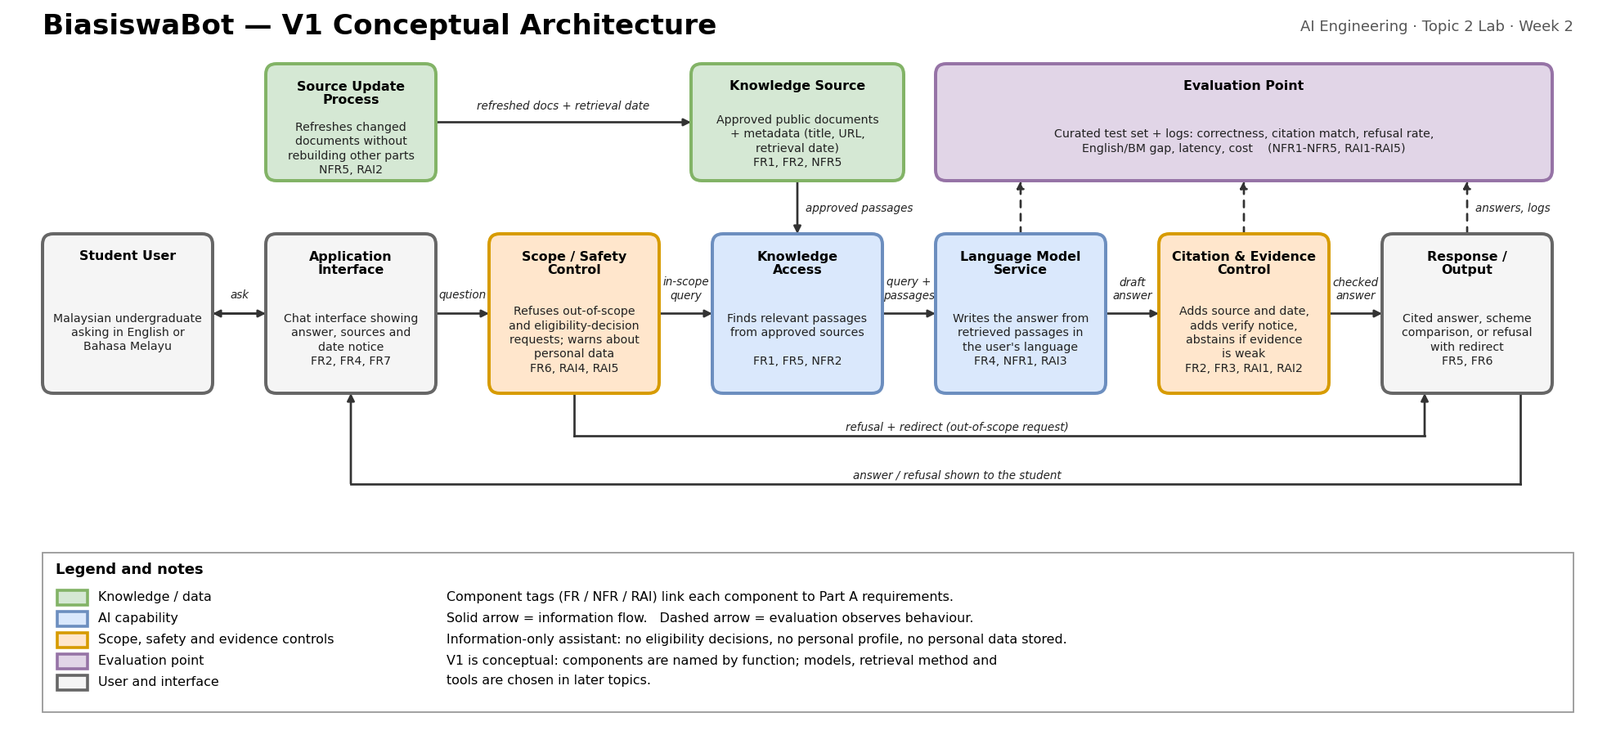
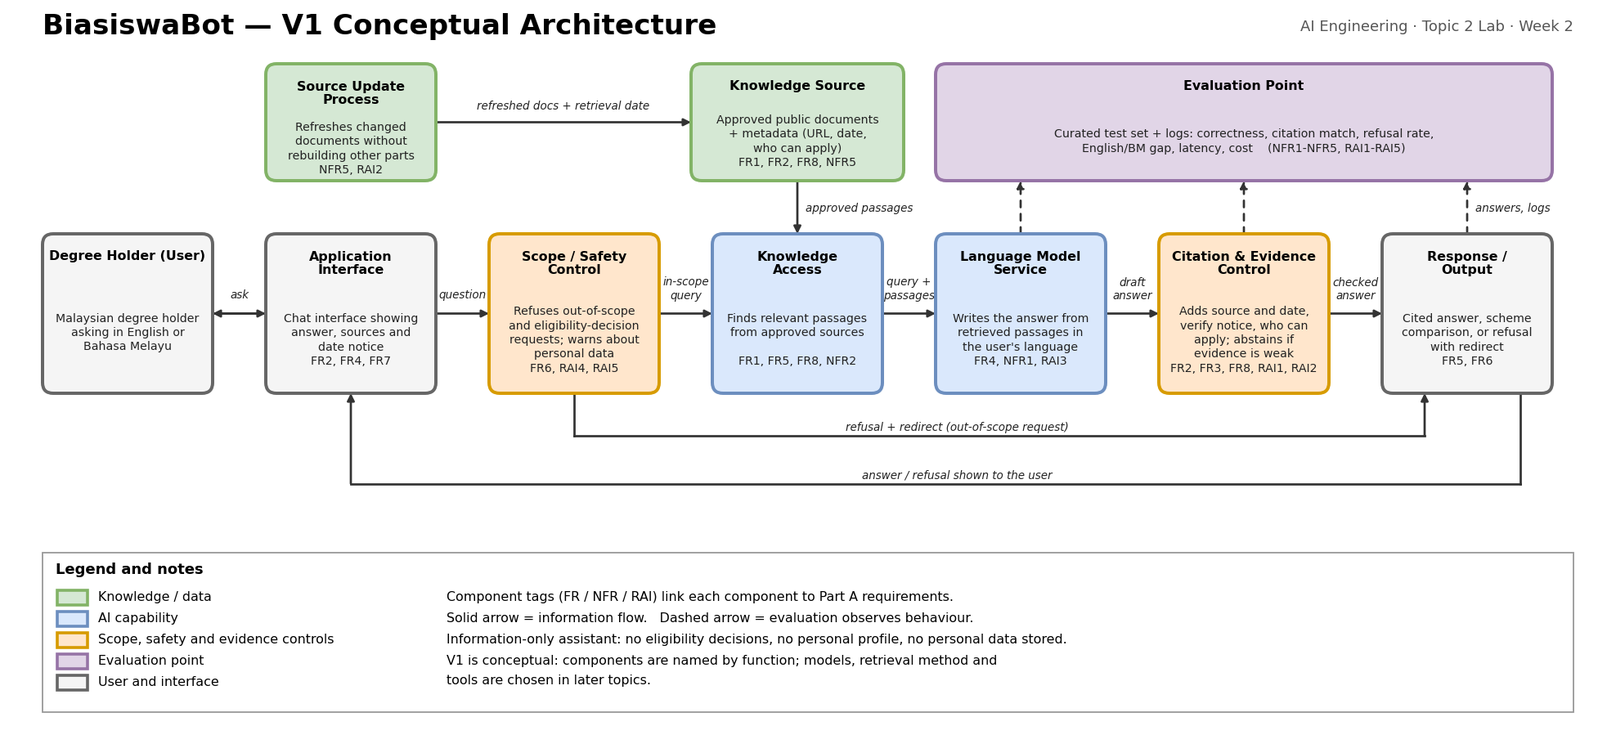
Week 2: add revised requirements, evaluation, architecture (degree holders, availability, papers)

diff --git a/docs/week2_requirements.md b/docs/week2_requirements.md
@@ -1,24 +1,38 @@
 # Requirements Specification — BiasiswaBot
 
-Version: 1.0 (Week 2)
+Version: 1.1 (Week 2, revised after lecturer feedback)
 
 ## Section 0 — Project Framing & Application Scope Checkpoint
 
 | Element | Content |
 |---|---|
-| **Problem Evidence** | Scholarship and financial-aid information for Malaysian undergraduates is spread across separate providers with different conditions. (1) MyGOV Malaysia lists assistance from several providers (e.g. JPA, PTPK), each with its own conditions such as income limits and "no other sponsorship": https://www.malaysia.gov.my/en/categories/school--education/scholarships-and-financial-assistance (2) Universities restate PTPTN rules with institution-specific details such as application windows and GPA conditions: https://www.hw.ac.uk/malaysia/study/fees-and-funding/scholarships/national-higher-education-fund-ptptn and https://new.apu.edu.my/national-higher-education-fund-perbadanan-tabung-pendidikan-tinggi-nasional-ptptn. A student must read and cross-check several pages to find the right scheme. |
-| **Existing Approaches** | (1) Chen et al. (2024) — RAG admission chatbot: gives grounded answers about admissions at three universities. (2) Trienes et al. (2025) — Marcel: open-source student-support agent for enrolment questions about one programme. (3) Siragusa et al. (2024) — Unipa-GPT: chatbot answering questions from one university's website in Italian. (4) Agency portals and FAQ pages (MyGOV, PTPTN, JPA): authoritative, but each covers its own scheme and the student must compare them manually. |
-| **Project / Engineering Gap** | The approaches above serve one institution or one agency. None of them (in this initial scan) combines scholarship and financial-aid rules from several Malaysian agencies, shows the source and date for every answer, handles English and Bahasa Melayu questions, and declines to make eligibility decisions. This is a practical engineering gap in grounding, traceability and scope control, not a claim of scientific novelty. |
-| **Objective O1** | To design a document-grounded AI assistant that answers scholarship and financial-aid questions using approved public Malaysian sources. |
-| **Objective O2** | To develop the assistant with source retrieval, source citation with date, and scope and evidence controls (decline out-of-scope requests, state when evidence is insufficient). |
-| **Objective O3** | To evaluate the assistant on answer correctness, citation support, refusal behaviour, English/BM parity, latency and cost using a curated test set. |
-| **Intended Users** | Malaysian undergraduate students (especially first- and second-year students at public universities) and prospective students looking for scholarships and financial aid. |
-| **Supported Tasks** | Answer questions about a scheme's provider, eligibility criteria, benefits, application steps, required documents and deadlines; compare two or more schemes on stated criteria; show the source and date for each answer; answer in English or Bahasa Melayu. |
-| **Information / Knowledge Domain** | Scholarship and financial-aid schemes for Malaysian undergraduates, taken only from approved public documents (MyGOV, PTPTN, JPA and similar official pages). |
-| **Operating Context** | A web chat interface used by a student on a laptop or phone, mainly around scholarship and loan application periods. V1 is a course prototype, not a deployed service. |
-| **Important Constraints** | Public documents only; links and metadata are stored in the repository, not copyrighted files; information changes over time (deadlines, eligibility); one-semester timeline; low budget (free or low-cost tiers); work must run locally or in Google Colab; no personal data collected. |
-| **Explicit Out-of-Scope Tasks** | Deciding whether a person is eligible; recommending the scheme a specific person should choose; financial, legal or tax advice; submitting or filling in applications; collecting or storing IC numbers, income or other personal data; schemes outside Malaysia or not in the indexed sources. |
-| **Evaluation Focus** | Can the assistant give correct, source-cited answers about scholarships and financial aid in English and Bahasa Melayu, decline out-of-scope requests, and stay within latency and cost limits, so that a student can trust and verify the information? |
+| **Problem Evidence** | Funding for postgraduate study in Malaysia comes from several bodies, and **who can apply differs by scheme**, which a degree holder cannot tell from the scheme name. (1) PTPTN financing requires an admission offer and enrolment on a programme approved by the Ministry and accredited by MQA (University of Reading Malaysia, n.d.; Asia Pacific University of Technology & Innovation, n.d.). (2) Universiti Malaya's postgraduate fee-reduction scheme is open only to Malaysian citizens registered as UM Master's or doctoral students with no other scholarship (Universiti Malaya, 2024). (3) The University of Aberdeen's David Stewart Scholarship (2024 intake) requires an offer of a place at Aberdeen and is held only there (University of Aberdeen, n.d.). (4) MyGOV lists assistance from several providers with different conditions (MyGOV Malaysia, n.d.). A degree holder who has not yet been admitted has to read each scheme's conditions just to find out whether it is open to them. |
+| **Existing Approaches** | (1) **BarkPlug v.2** (Neupane et al., 2024): RAG chatbot whose corpus includes scholarships and financial aid, evaluated at one university. (2) **hoBIT / proFILL** (Kim et al., 2026): profile-aware RAG for academic advising, because identical questions need different answers depending on department, cohort and degree. (3) **Carolina Guide** (Torkian & Zhou, 2026): RAG system with institutional guardrails (explicit citation, metadata-aware filtering, refusal of personalised planning, student data protection). (4) **Marcel** (Trienes et al., 2025): open-source admissions agent that shows sources and abstains when its documents lack the answer. (5) Agency and university funding pages, which are authoritative but each covers only its own schemes. |
+| **Project / Engineering Gap** | The chatbots above work on one institution's own documents. Funding information for degree holders is spread across agencies and universities, and each scheme's availability differs: open to eligible applicants generally, open only with an admission offer or enrolment, or open only to students registered at one university. hoBIT shows that a profile-blind answer can be inapplicable, but it solves this by collecting profile attributes. The gap addressed here is practical: **state, with a citation, who each scheme is open to, across several public sources, without storing a user profile and without deciding eligibility.** This is an engineering gap, not a claim of scientific novelty. |
+| **Objective O1** | To design a document-grounded AI assistant that answers questions about postgraduate funding for Malaysian degree holders using approved public sources, and states who each scheme is open to. |
+| **Objective O2** | To develop the assistant with source retrieval, source citation with date, availability metadata, and scope and evidence controls (decline out-of-scope requests, state when evidence is insufficient). |
+| **Objective O3** | To evaluate the assistant on answer correctness, citation support, availability accuracy, refusal behaviour, English/BM parity, latency and cost using a curated test set. |
+| **Intended Users** | Malaysian **degree holders** (bachelor's graduates), including those not yet admitted to a university, who are looking for funding for postgraduate (Master's or PhD) study in Malaysia. |
+| **Supported Tasks** | Answer questions about a scheme's provider, eligibility criteria, benefits, application steps, required documents and deadlines; **state who the scheme is open to and the condition (open to eligible applicants generally / requires an admission offer or enrolment / only for students registered at a named university)**; compare schemes on stated criteria; show the source and date for each answer; answer in English or Bahasa Melayu. |
+| **Information / Knowledge Domain** | Postgraduate funding and financial aid for Malaysian degree holders, taken only from approved public documents: PTPTN official pages, the Ministry of Higher Education scholarship portal, MyGOV, and university postgraduate funding pages (exact documents to be recorded in Week 3). |
+| **Operating Context** | A web chat interface used on a laptop or phone, mainly around postgraduate application and funding periods. V1 is a course prototype, not a deployed service. |
+| **Important Constraints** | Public documents only; links and metadata are stored in the repository, not copyrighted files; information changes over time (deadlines, eligibility, availability); one-semester timeline; low budget (free or low-cost tiers); must run locally or in Google Colab; no personal data collected. |
+| **Explicit Out-of-Scope Tasks** | Deciding whether a person is eligible; recommending the scheme a specific person should choose; financial, legal or tax advice; submitting or filling in applications; collecting or storing IC numbers, income or other personal data; schemes for international students; undergraduate (diploma and first-degree) funding; schemes outside Malaysia or not in the indexed sources. |
+| **Evaluation Focus** | Can the assistant give correct, source-cited answers about postgraduate funding in English and Bahasa Melayu, state correctly who each scheme is open to, decline out-of-scope requests, and stay within latency and cost limits, so that a degree holder can trust and verify the information? |
+
+### Section 0a — Availability check: is each scheme open to all, or only to registered students?
+
+Checked on three schemes. The categories are: **A** = open to eligible applicants without an admission offer or registration; **B** = requires an admission offer or enrolment at a recognised institution; **C** = only for students registered at one named university.
+
+| Scheme | Who it is open to (from the source) | Type | Source |
+|---|---|---|---|
+| PTPTN education financing (including postgraduate) | Applicants with an admission offer who are enrolled on a full-time programme approved by the Ministry and accredited by MQA. An older PTPTN terms document also states an age limit of 45. | B | University of Reading Malaysia (n.d.); Asia Pacific University of Technology & Innovation (n.d.); Universiti Pendidikan Sultan Idris (n.d., older document) |
+| Universiti Malaya postgraduate fee-reduction scheme (disabled and senior-citizen candidates) | Malaysian citizens registered as UM Master's or PhD students, with no other scholarship or sponsorship. | C | Universiti Malaya (2024) |
+| David Stewart Scholarship, University of Aberdeen (2024 intake) | Malaysian nationals with an offer of a place at Aberdeen and a recognised Malaysian degree, who are self-funded and not receiving Malaysian Government assistance. | B and C (one specific overseas university) | University of Aberdeen (n.d.) |
+
+**Finding:** in these three, none is open to someone who has not yet been admitted or registered. No type-A scheme for Malaysian degree holders has been verified yet. This is why FR8 requires the assistant to state the availability condition from the source and never assume it.
+
+**Still to verify:** (1) read the official PTPTN pages directly, since this check used institutional pages and an older terms document; secondary guides also report that PTPTN postgraduate financing applies to public universities only, which must be confirmed on the official site before it is used as a fact; (2) find at least one type-A scheme and several more type-B and type-C schemes before building the test set.
 
 ## Section 1 — Functional Requirements
 
@@ -28,9 +42,10 @@ Version: 1.0 (Week 2)
 | **FR2** | Provide a source reference (document title, URL, and section or page where available) and the date the source was retrieved for every document-based answer. | Present unsupported information as if it came from an approved source. |
 | **FR3** | State clearly when the approved sources do not contain enough information to answer, and direct the user to the official agency page. | Guess an answer to fill the gap. |
 | **FR4** | Accept questions in English or Bahasa Melayu and reply in the language of the question. | — |
-| **FR5** | Compare two or more schemes on stated criteria (eligibility, benefit, deadline) in a structured format when asked. | Rank schemes or say which one a specific user should choose. |
+| **FR5** | Compare two or more schemes on stated criteria (eligibility, availability, benefit, deadline) in a structured format when asked. | Rank schemes or say which one a specific user should choose. |
 | **FR6** | Decline out-of-scope requests (eligibility decisions, financial or legal advice, submitting applications, schemes outside the sources) and redirect the user to the relevant agency or university financial-aid office. | Decide whether a person is eligible for a scheme. |
-| **FR7** | Present answers in clear, plain language for undergraduate students, with the key fact (deadline or eligibility condition) stated first. | — |
+| **FR7** | Present answers in clear, plain language for degree holders, with the key fact (deadline, eligibility condition or availability) stated first. | — |
+| **FR8** | State, for each scheme it describes, who the scheme is open to (open to eligible applicants generally, requires an admission offer or enrolment, or only for students registered at a named university) and the condition as written in the source. | Assume or infer availability that the source does not state; if the source is silent, say so. |
 
 ## Section 2 — Non-Functional Requirements
 
@@ -46,8 +61,8 @@ Version: 1.0 (Week 2)
 
 | # | Responsible AI Risk | Requirement | Measurement Method | Metric | Threshold |
 |---|---|---|---|---|---|
-| **RAI1** | Hallucination / wrong eligibility, amount or deadline | The system shall state eligibility, amount and deadline facts correctly or abstain. | Run a "critical-fact" subset of at least 15 questions whose answers are verified in the sources. | Critical-fact accuracy; number of invented schemes | ≥ 95%; 0 invented schemes |
-| **RAI2** | Outdated information | Every answer that includes a deadline or eligibility rule shall show the source date and a notice to verify with the official source. | Inspect answers to a time-sensitive question subset. | Share of answers with source date and verify notice | 100% |
+| **RAI1** | Hallucination / wrong eligibility, availability, amount or deadline | The system shall state eligibility, availability, amount and deadline facts correctly or abstain. | Run a "critical-fact" subset of at least 15 questions (including who each scheme is open to) whose answers are verified in the sources. | Critical-fact accuracy; number of invented schemes | ≥ 95%; 0 invented schemes |
+| **RAI2** | Outdated information | Every answer that includes a deadline, eligibility rule or availability condition shall show the source date and a notice to verify with the official source. | Inspect answers to a time-sensitive question subset. | Share of answers with source date and verify notice | 100% |
 | **RAI3** | Fairness / language | Answer quality shall not differ beyond the agreed tolerance between English and Bahasa Melayu questions. | Ask the same questions in both languages and compare correctness rates. | Absolute correctness-rate gap (EN vs BM) | ≤ 10 percentage points |
 | **RAI4** | Privacy | The system shall not request, store or send personal data (IC number, income, contact details) to external model APIs. | Run at least 10 privacy test prompts containing fake personal data and inspect the outgoing API payloads and logs. | Number of personal-data transmissions or stored records | 0 |
 | **RAI5** | Misuse / out-of-scope decisions | The system shall refuse out-of-scope requests, including eligibility decisions, and redirect the user. | Run a safety/scope test set of at least 20 out-of-scope queries. | Refusal-and-redirect success rate | ≥ 95% |
@@ -55,3 +70,25 @@ Version: 1.0 (Week 2)
 ## Reflection — Which Responsible AI requirement will be the most difficult to measure or enforce technically?
 
 RAI3 (English/Bahasa Melayu fairness) will be the hardest. To measure it I need a paired test set with the same questions in both languages and verified answers, but most official sources are in English, so Bahasa Melayu questions may retrieve weaker evidence for reasons that are not about the model itself. A small test set also makes the gap noisy: with 30 questions, one question changes the correctness rate by about 3 percentage points. Enforcing it is harder still, because fixing the gap may need Bahasa Melayu source documents or retrieval that works across languages, which I may not have in one semester.
+
+## References
+
+Asia Pacific University of Technology & Innovation. (n.d.). *National Higher Education Fund / Perbadanan Tabung Pendidikan Tinggi Nasional (PTPTN)*. Retrieved [date], from https://training.apiit.edu.my/ptptninfo
+
+Kim, Y., Lee, S., Kim, J., & Kang, S. (2026). *hoBIT: A profile-aware retrieval-augmented chatbot for university academic advising* (arXiv:2608.26604). arXiv. https://arxiv.org/pdf/2608.26604
+
+MyGOV Malaysia. (n.d.). *Scholarships and financial assistance*. Retrieved [date], from https://www.malaysia.gov.my/en/categories/school--education/scholarships-and-financial-assistance
+
+Neupane, S., Hossain, E., Keith, J., Tripathi, H., Ghiasi, F., Golilarz, N. A., Amirlatifi, A., Mittal, S., & Rahimi, S. (2024). *From questions to insightful answers: Building an informed chatbot for university resources* (arXiv:2405.08120). arXiv. https://arxiv.org/abs/2405.08120
+
+Torkian, B., & Zhou, J. (2026). *Carolina Guide: A multi-agent RAG system with institutional guardrails for academic policy assistance* (arXiv:2606.28360). arXiv. https://arxiv.org/pdf/2606.28360
+
+Trienes, J., Derzhanskaia, A., Schwarzkopf, R., Mühling, M., Schlötterer, J., & Seifert, C. (2025). *Marcel: A lightweight and open-source conversational agent for university student support* (arXiv:2507.13937). arXiv. https://arxiv.org/abs/2507.13937
+
+Universiti Malaya. (2024). *Skim pengurangan yuran orang kurang upaya dan warga emas calon pascasiswazah* [Fee reduction scheme for disabled and senior-citizen postgraduate candidates]. https://masd.um.edu.my/skim-pengurangan-yuran-orang-kurang-upaya-dan-warga-emas-calon-pascasiswazah
+
+Universiti Pendidikan Sultan Idris. (n.d.). *Maklumat PTPTN baru: Terma dan syarat permohonan pembiayaan pendidikan PTPTN* [Older document; verify current terms]. https://www.upsi.edu.my/kemasukan/maklumat_am/ismfeb1415/pdf/MAKLUMAT_PTPTN_BARU.pdf
+
+University of Aberdeen. (n.d.). *David Stewart Scholarship* [2024 intake]. https://www.abdn.ac.uk/funding/124
+
+University of Reading Malaysia. (n.d.). *National Higher Education Fund: Perbadanan Tabung Pendidikan Tinggi Nasional (PTPTN)*. Retrieved [date], from https://www.reading.edu.my/admissions/funding-2/ptptn

diff --git a/docs/week2_architecture_decisions.md b/docs/week2_architecture_decisions.md
@@ -1,14 +1,15 @@
 # Architecture Decisions & Traceability — BiasiswaBot
 
-Version: 1.0 (Week 2). Diagram: `docs/week2_architecture_v1.png`
+Version: 1.1 (Week 2, revised after lecturer feedback). Diagram: `docs/week2_architecture_v1.png`
 
 ## Architecture Needs from Requirements
 
 | Requirement ID | What does the requirement need? | Architecture Response |
 |---|---|---|
-| FR1 / NFR2 | Answers must come from approved scholarship documents, not from general model knowledge. | Knowledge Source and Knowledge Access |
+| FR1 / NFR2 | Answers must come from approved funding documents, not from general model knowledge. | Knowledge Source and Knowledge Access |
 | FR2 / RAI2 | Every answer needs a source and a date. | Source metadata kept with the Knowledge Source; Citation & Evidence Control |
 | FR3 / RAI1 | The system must say when evidence is insufficient and must not guess critical facts. | Citation & Evidence Control (abstain) |
+| FR8 / RAI1 | Each scheme must state who it is open to (all eligible applicants, admission offer or enrolment required, or one university's registered students). | "Who can apply" metadata stored with each document in the Knowledge Source; Citation & Evidence Control checks the statement against the source |
 | FR6 / RAI5 / RAI4 | Out-of-scope requests must be refused and personal data must not be collected. | Scope / Safety Control |
 | FR4 / RAI3 | Questions in English and Bahasa Melayu must be handled with similar quality. | Language Model Service that answers in the user's language; matched test set |
 | NFR5 / RAI2 | Changed documents must be refreshed without rebuilding everything. | Source Update Process |
@@ -18,10 +19,11 @@ Version: 1.0 (Week 2). Diagram: `docs/week2_architecture_v1.png`
 
 | # | Decision | Requirement / Constraint | Alternatives Considered | Selected Option | Trade-off Accepted |
 |---|---|---|---|---|---|
-| ADR1 | Include knowledge access over approved sources | FR1, FR2, NFR2; rules change and are scattered across agencies | Base model only; static FAQ or keyword search; dynamic knowledge access | Generic knowledge-access component over approved documents | More system complexity and an index to maintain, in return for grounded and traceable answers. |
+| ADR1 | Include knowledge access over approved sources | FR1, FR2, NFR2; rules change and are scattered across agencies and universities | Base model only; static FAQ or keyword search; dynamic knowledge access | Generic knowledge-access component over approved documents | More system complexity and an index to maintain, in return for grounded and traceable answers. |
 | ADR2 | Include an explicit scope/safety control before the answer is generated, and keep the assistant stateless (no user profile) | FR6, RAI4, RAI5 | Instruction in the prompt only; explicit control; personalised eligibility checker using income | Explicit scope control, no personal profile | Possible false refusals, extra processing time, and no personalised "you qualify" answers, in return for fewer wrong decisions and no personal data handling. |
 | ADR3 | Include a citation and evidence check after generation that can abstain | FR2, FR3, RAI1, RAI2 | Trust the model to cite correctly; check after generation | Post-generation evidence control with abstention | Extra latency (affects NFR1) and some answerable questions will be withheld, in return for fewer wrong deadlines or eligibility facts. |
 | ADR4 | Separate the source update process from the rest of the system | NFR5, RAI2; deadlines change | One-time static index; full rebuild on each change; incremental refresh with retrieval date | Incremental refresh that stores the retrieval date | Ongoing maintenance effort, in return for fresher answers and a visible date. |
+| ADR5 | Store "who can apply" metadata with each document and state the condition, instead of collecting a user profile | FR8, RAI1, RAI4; availability differs by scheme (Section 0a of the requirements) | Ignore availability; profile-aware retrieval that asks for department, cohort or degree as in hoBIT (Kim et al., 2026); availability metadata plus stated condition | Availability metadata and a stated condition | The assistant cannot automatically narrow results to "schemes you can apply for", and the user must read the condition. In return, no personal profile is collected or stored, which protects privacy (RAI4). A status typed in the current question may be used in that session only and is never stored. |
 
 ## Initial Requirements Traceability Matrix
 
@@ -29,6 +31,7 @@ Version: 1.0 (Week 2). Diagram: `docs/week2_architecture_v1.png`
 |---|---|---|---|---|
 | O1 | FR1, FR2, NFR2 | Answer correctness; citation support | Knowledge Source, Knowledge Access | Week 3–4 retrieval test; `evaluation/` correctness results on the 30-question set |
 | O2 | FR3, RAI1, RAI2 | Critical-fact accuracy and abstention | Citation & Evidence Control | `evaluation/` critical-fact results; sample answers showing dates and verify notices |
+| O2 | FR8, RAI1 | Availability accuracy (who can apply) | Knowledge Source (who-can-apply metadata), Citation & Evidence Control | `evaluation/` availability test (at least 10 questions); metadata table of verified schemes |
 | O2 | FR6, RAI4, RAI5 | Out-of-scope refusal | Scope / Safety Control | `evaluation/` refusal test (at least 20 queries); privacy payload check |
 | O3 | RAI3, FR4 | English/BM answer parity | Language Model Service, Knowledge Source | `evaluation/` paired EN/BM results |
 | O3 | NFR1, NFR4 | Latency; cost | Evaluation Point (logs) | `evaluation/` latency and cost log over the workload |
@@ -36,10 +39,14 @@ Version: 1.0 (Week 2). Diagram: `docs/week2_architecture_v1.png`
 ## Final Review Checklist
 
 - **Does each major component support a requirement or evaluation need?** Yes. Each component in the diagram carries the FR / NFR / RAI tags it supports.
-- **Is any important data source, safety control or evaluation point missing?** The approved document list is still only three main sites; exact document URLs are added in Week 3. A Bahasa Melayu source set is not yet defined (see RAI3).
+- **Is any important data source, safety control or evaluation point missing?** The approved document list is still incomplete: the official PTPTN pages have not been read directly, and no scheme open without an admission offer or registration has been verified yet (Section 0a of the requirements). A Bahasa Melayu source set is not yet defined (see RAI3).
 - **Have I added any technology or component that is not yet justified?** No. All components are named by function and tied to a requirement, and no model, retrieval method or tool is chosen yet.
-- **Is there a simpler architecture that could still satisfy the requirements?** A model-only chatbot is simpler but cannot meet FR1, FR2 or RAI1, because it has no approved sources, dates or evidence check.
+- **Is there a simpler architecture that could still satisfy the requirements?** A model-only chatbot is simpler but cannot meet FR1, FR2, FR8 or RAI1, because it has no approved sources, dates, availability metadata or evidence check.
 
 ## Reflection — Which architecture decision involved the most important trade-off?
 
-ADR3, the citation and evidence control that can abstain. It is driven by RAI1 (critical-fact accuracy ≥ 95%) and FR3 (say when evidence is insufficient). The trade-off I accept is extra latency, which counts against NFR1, and some questions the model could answer will be withheld because the evidence is weak. For scholarship information I prefer "I could not confirm this, check the official page" over a fluent but wrong deadline.
+ADR3, the citation and evidence control that can abstain. It is driven by RAI1 (critical-fact accuracy ≥ 95%) and FR3 (say when evidence is insufficient). The trade-off I accept is extra latency, which counts against NFR1, and some questions the model could answer will be withheld because the evidence is weak. For funding information I prefer "I could not confirm this, check the official page" over a fluent but wrong deadline or availability condition. ADR5 is a close second, because choosing not to collect a profile means the user has to read the availability condition themselves.
+
+## References
+
+Kim, Y., Lee, S., Kim, J., & Kang, S. (2026). *hoBIT: A profile-aware retrieval-augmented chatbot for university academic advising* (arXiv:2608.26604). arXiv. https://arxiv.org/pdf/2608.26604

diff --git a/docs/week2_evaluation_criteria.md b/docs/week2_evaluation_criteria.md
@@ -1,18 +1,19 @@
 # Evaluation Criteria — BiasiswaBot
 
-Version: 1.0 (Week 2)
+Version: 1.1 (Week 2, revised after lecturer feedback)
 
 | Objective / Requirement ID | Evaluation Criterion | Capability Bucket | Measurement Method | Metric | Threshold | User / Business Outcome |
 |---|---|---|---|---|---|---|
-| O3 / FR1 / NFR2 | Answer correctness | Domain-specific capability | Score a curated set of at least 30 supported scholarship questions against a rubric verified from the sources. | Correct response rate | ≥ 80% | Students get sufficiently reliable answers about schemes, eligibility and steps. |
-| O2 / FR3 / RAI1 | Critical-fact accuracy and abstention | Domain-specific capability | Run a subset of at least 15 questions on eligibility, amounts and deadlines; check each answer is correct or abstains. | Critical-fact accuracy; invented schemes | ≥ 95%; 0 invented | Students do not miss a deadline or apply for the wrong scheme because of a wrong answer. |
-| O2 / FR2 / RAI2 | Source citation and support | Instruction-following capability | Inspect document-based answers for a source reference and date, then check that the cited source supports the answer. | Citation presence rate; citation-source match rate | 100% presence; ≥ 90% match | Students can verify every answer against the official page. |
-| O2 / FR6 / RAI5 | Out-of-scope refusal | Instruction-following capability | Run at least 20 out-of-scope queries (eligibility decisions, financial advice, submitting applications). | Refusal-and-redirect success rate | ≥ 95% | Students are not given eligibility decisions or advice the system is not able to give. |
-| O3 / RAI3 | English/BM answer parity | Domain-specific capability | Ask matched questions in English and Bahasa Melayu and compare correctness. | Absolute correctness-rate gap | ≤ 10 percentage points | Students get similar quality whichever language they use. |
-| O1 / FR7 | Response clarity | Generation capability | Two reviewers rate 20 answers on a simple 1–5 clarity rubric (key fact first, plain language). | Mean clarity score | ≥ 4.0 / 5 | Students can understand the answer without reading the whole source document. |
-| O3 / NFR1 | Response latency | Cost and latency | Measure end-to-end response time over the 30-question workload. | p90 latency | < 5 s | Students get a responsive interaction. |
+| O3 / FR1 / NFR2 | Answer correctness | Domain-specific capability | Score a curated set of at least 30 supported scholarship questions against a rubric verified from the sources. | Correct response rate | ≥ 80% | Degree holders get sufficiently reliable answers about schemes, eligibility and steps. |
+| O2 / FR3 / RAI1 | Critical-fact accuracy and abstention | Domain-specific capability | Run a subset of at least 15 questions on eligibility, amounts and deadlines; check each answer is correct or abstains. | Critical-fact accuracy; invented schemes | ≥ 95%; 0 invented | Degree holders do not miss a deadline or apply for the wrong scheme because of a wrong answer. |
+| O2 / FR2 / RAI2 | Source citation and support | Instruction-following capability | Inspect document-based answers for a source reference and date, then check that the cited source supports the answer. | Citation presence rate; citation-source match rate | 100% presence; ≥ 90% match | Degree holders can verify every answer against the official page. |
+| O2 / FR8 / RAI1 | Availability accuracy (who can apply) | Domain-specific capability | Run at least 10 questions asking who a scheme is open to (including a user who says they have a degree but no admission offer yet); check the stated availability type and condition against the source. | Availability accuracy | ≥ 95% | Degree holders do not spend time on schemes they cannot apply for. |
+| O2 / FR6 / RAI5 | Out-of-scope refusal | Instruction-following capability | Run at least 20 out-of-scope queries (eligibility decisions, financial advice, submitting applications). | Refusal-and-redirect success rate | ≥ 95% | Degree holders are not given eligibility decisions or advice the system is not able to give. |
+| O3 / RAI3 | English/BM answer parity | Domain-specific capability | Ask matched questions in English and Bahasa Melayu and compare correctness. | Absolute correctness-rate gap | ≤ 10 percentage points | Degree holders get similar quality whichever language they use. |
+| O1 / FR7 | Response clarity | Generation capability | Two reviewers rate 20 answers on a simple 1–5 clarity rubric (key fact first, plain language). | Mean clarity score | ≥ 4.0 / 5 | Degree holders can understand the answer without reading the whole source document. |
+| O3 / NFR1 | Response latency | Cost and latency | Measure end-to-end response time over the 30-question workload. | p90 latency | < 5 s | Degree holders get a responsive interaction. |
 | O3 / NFR4 | Inference cost | Cost and latency | Record model/API usage over the evaluation workload. | Cost per 100 queries | < US$0.50 (illustrative) | The prototype stays within a student project budget. |
 
 ## Reflection — Which evaluation criterion is most important for determining whether the application will be useful?
 
-Critical-fact accuracy (O2 / FR3 / RAI1). A student uses the assistant to decide whether and when to apply, so a wrong deadline, amount or eligibility rule has a real cost, such as a missed application. A fluent answer that is wrong is worse than "I could not find this, check the official page". This is why the threshold is higher (≥ 95%) than for general correctness (≥ 80%), and why it allows abstaining as an acceptable outcome.
+Critical-fact accuracy (O2 / FR3 / RAI1). A degree holder uses the assistant to decide whether and when to apply, so a wrong deadline, amount, eligibility rule or availability condition has a real cost, such as a missed or wasted application. A fluent answer that is wrong is worse than "I could not find this, check the official page". This is why the threshold is higher (≥ 95%) than for general correctness (≥ 80%), and why it allows abstaining as an acceptable outcome.
